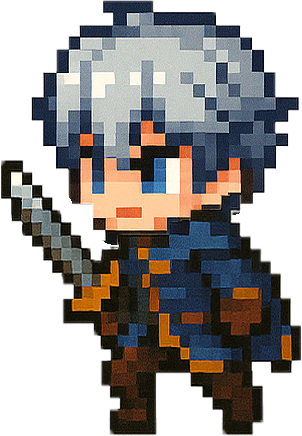
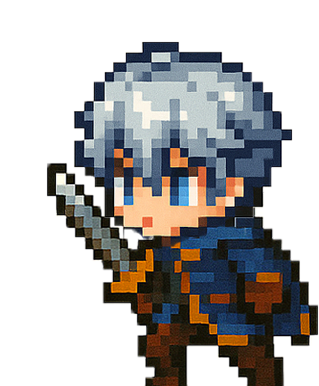
modified:   assets/images/Aster_attack1.png 	modified:   assets/images/Aster_attack2.png 	modified:   assets/images/Aster_attack3.png 	modified:   assets/images/Aster_jump1.png 	modified:   assets/images/Aster_jump2.png 	modified:   assets/images/Aster_jump3.png 	modified:   assets/images/Aster_walk

diff --git a/src/scenes/TutorialFieldScene.js b/src/scenes/TutorialFieldScene.js
@@ -99,9 +99,9 @@ export class TutorialFieldScene extends Phaser.Scene {
         this.player.setFlipX(true);
         this.player.setGravityY(this.gravity);  // 중력 설정
 
-        this.partner = this.physics.add.sprite(50, 550, 'Aster_walk1');
+        this.partner = this.physics.add.sprite(50, 550, 'Aster_walk2');
         this.partner.setCollideWorldBounds(true);
-        this.partner.setScale(0.24);
+        this.partner.setScale(0.27);
         this.partner.setFlipX(true);
         this.partner.setGravityY(this.gravity);  // 중력 설정
 
@@ -279,7 +279,7 @@ export class TutorialFieldScene extends Phaser.Scene {
                 this.player.anims.stop();
                 this.partner.anims.stop();
                 this.player.setTexture('Reed_walk1');
-                this.partner.setTexture('Aster_walk1');
+                this.partner.setTexture('Aster_walk2');
             }       
         }
 
@@ -324,7 +324,6 @@ export class TutorialFieldScene extends Phaser.Scene {
 
                 this.time.delayedCall(250, () => {
                     this.atkDamage = 50;
-                    this.partner.setScale(0.26);
                     this.partner.anims.play('attack2', true);
                     this.partner.setY(600);
 
@@ -352,8 +351,6 @@ export class TutorialFieldScene extends Phaser.Scene {
                 this.time.delayedCall(1000, () => {
                     this.atkDamage = 0;
                     this.partner.anims.stop();
-                    this.partner.setTexture('Aster_jump2');
-                    this.partner.setScale(0.24);
                     this.isStunned = false;
                 });
             } else {

diff --git a/src/scenes/Stage1FieldScene.js b/src/scenes/Stage1FieldScene.js
@@ -126,7 +126,7 @@ export class Stage1FieldScene extends Phaser.Scene {
 
         this.partner = this.physics.add.sprite(50, 550, 'Aster_walk1');
         this.partner.setCollideWorldBounds(true);
-        this.partner.setScale(0.24);
+        this.partner.setScale(0.27);
         this.partner.setFlipX(true);
         this.partner.setGravityY(this.gravity);  // 중력 설정
 
@@ -447,7 +447,7 @@ export class Stage1FieldScene extends Phaser.Scene {
                 this.player.anims.stop();
                 this.partner.anims.stop();
                 this.player.setTexture('Reed_walk1');
-                this.partner.setTexture('Aster_walk1');
+                this.partner.setTexture('Aster_walk2');
             }       
         }
 
@@ -534,7 +534,6 @@ export class Stage1FieldScene extends Phaser.Scene {
 
                 this.time.delayedCall(250, () => {
                     this.atkDamage = 50;
-                    this.partner.setScale(0.26);
                     this.partner.anims.play('attack2', true);
                     this.partner.setY(600);
 
@@ -562,8 +561,6 @@ export class Stage1FieldScene extends Phaser.Scene {
                 this.time.delayedCall(1000, () => {
                     this.atkDamage = 0;
                     this.partner.anims.stop();
-                    this.partner.setTexture('Aster_jump2');
-                    this.partner.setScale(0.24);
                     this.isStunned = false;
                 });
             } else {

diff --git a/src/scenes/TutorialBossScene.js b/src/scenes/TutorialBossScene.js
@@ -109,7 +109,7 @@ export class TutorialBossScene extends Phaser.Scene {
 
         this.partner = this.physics.add.sprite(50, 550, 'Aster_walk1');
         this.partner.setCollideWorldBounds(true);
-        this.partner.setScale(0.24);
+        this.partner.setScale(0.27);
         this.partner.setFlipX(true);
         this.partner.setGravityY(this.gravity);  // 중력 설정
 
@@ -325,7 +325,7 @@ export class TutorialBossScene extends Phaser.Scene {
                 this.player.anims.stop();
                 this.partner.anims.stop();
                 this.player.setTexture('Reed_walk1');
-                this.partner.setTexture('Aster_walk1');
+                this.partner.setTexture('Aster_walk2');
             }
         }
 
@@ -385,7 +385,6 @@ export class TutorialBossScene extends Phaser.Scene {
 
                 this.time.delayedCall(250, () => {
                     this.atkDamage = 50;
-                    this.partner.setScale(0.26);
                     this.partner.anims.play('attack2', true);
                     this.partner.setY(600);
 
@@ -413,8 +412,6 @@ export class TutorialBossScene extends Phaser.Scene {
                 this.time.delayedCall(1000, () => {
                     this.atkDamage = 0;
                     this.partner.anims.stop();
-                    this.partner.setTexture('Aster_jump2');
-                    this.partner.setScale(0.24);
                     this.isStunned = false;
                 });
             } else {

diff --git a/src/scenes/StageSelectScene.js b/src/scenes/StageSelectScene.js
@@ -112,7 +112,7 @@ export class StageSelectScene extends Phaser.Scene {
 
         this.partner = this.physics.add.sprite(300, 200, 'Aster_walk1');
         this.partner.setCollideWorldBounds(true);
-        this.partner.setScale(0.24);
+        this.partner.setScale(0.27);
         this.partner.setFlipX(true);
 
         // 키보드 입력
@@ -157,7 +157,7 @@ export class StageSelectScene extends Phaser.Scene {
                 this.partner.anims.stop();
 
                 this.player.setTexture("Reed_walk1");
-                this.partner.setTexture("Aster_walk1");
+                this.partner.setTexture("Aster_walk2");
 
                 this.isAutoMove = false;
 
